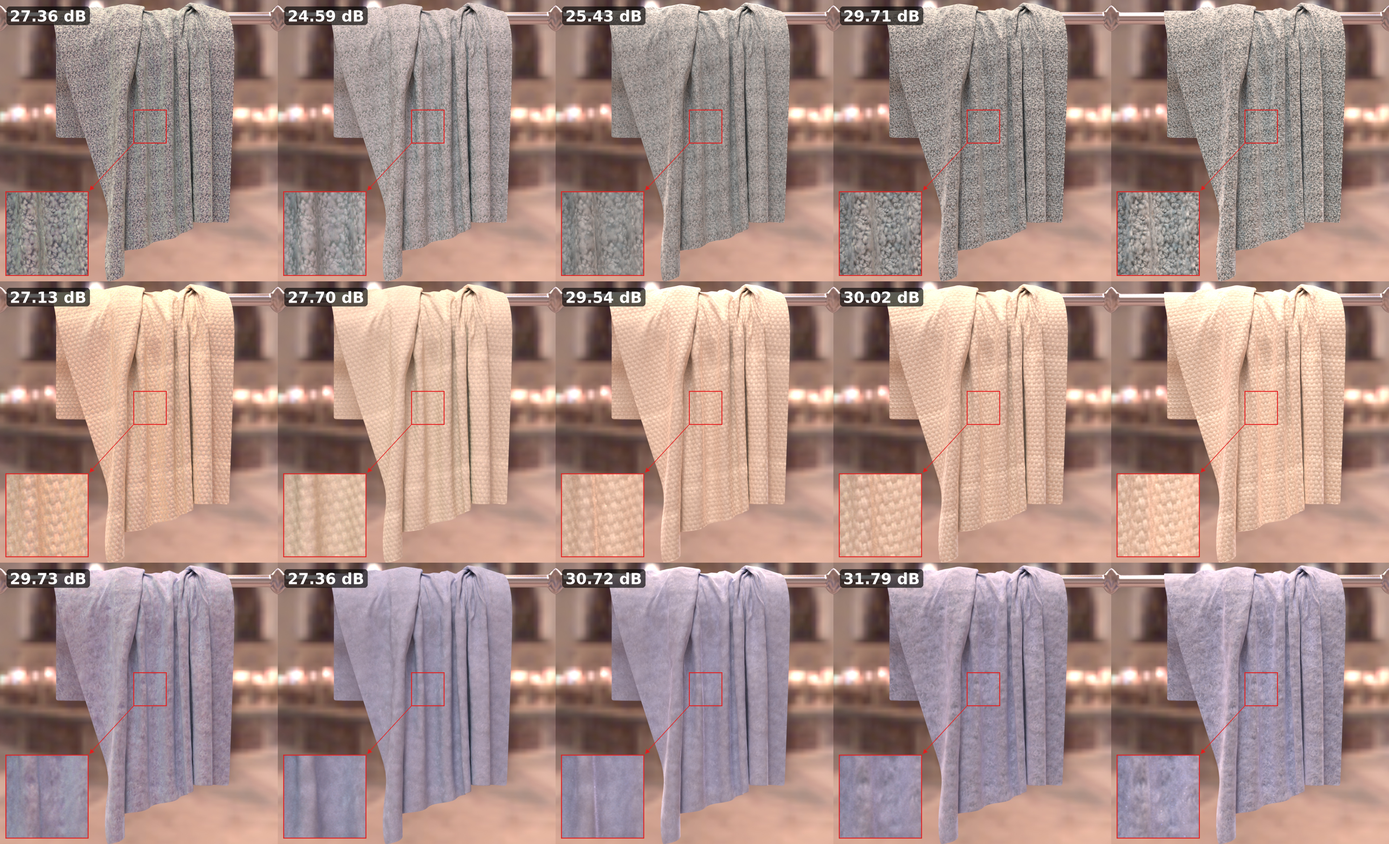
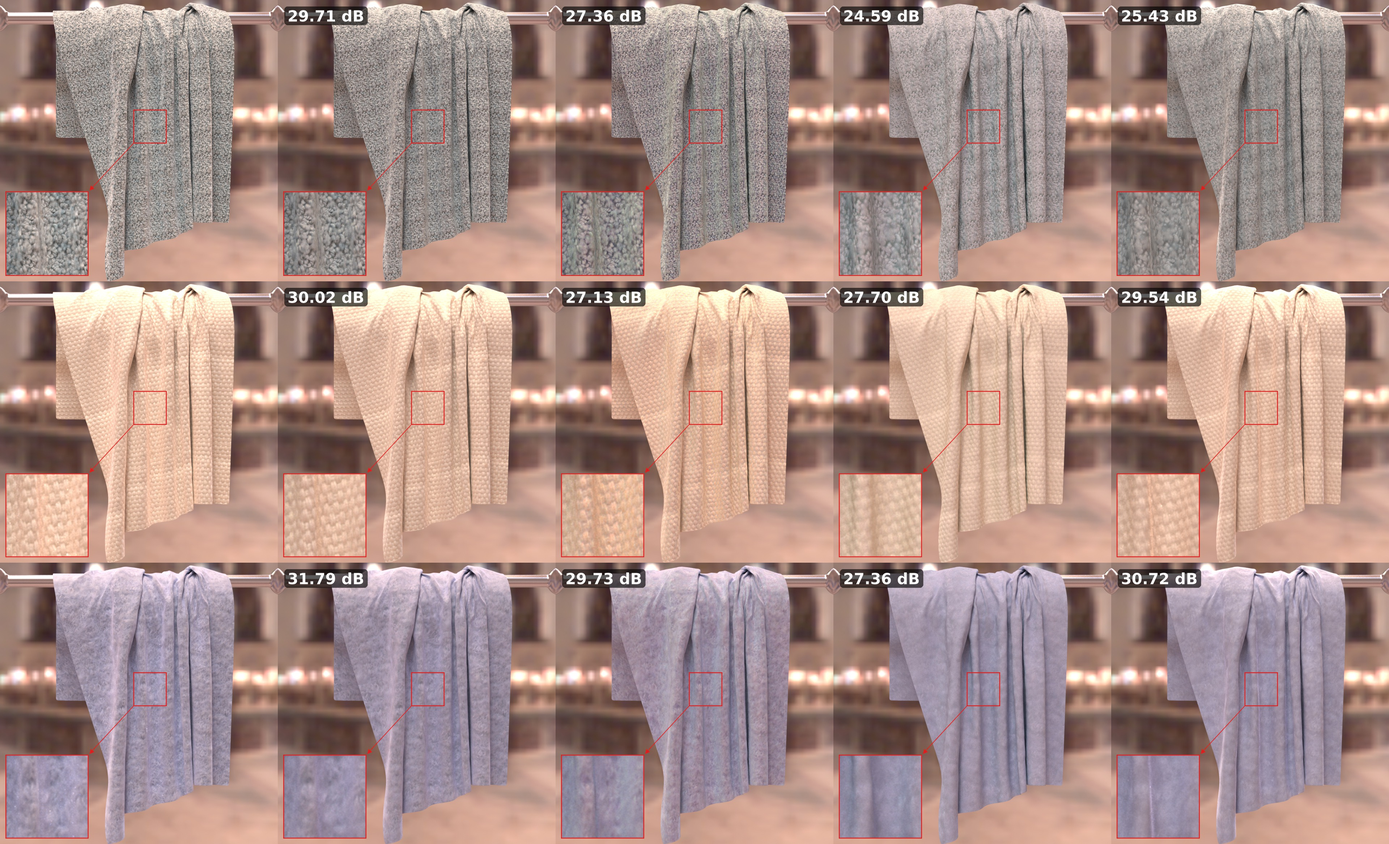
Qualitative figures: one column order everywhere (GT | RoboCloth | UBOFAB19 | MERL | PBR)
The UBO2014 close-up and the two 12-material grids are re-cut along their
gutters to match the test-set and image-space figures; headers, intro and the
'all 12 materials' caption updated.

diff --git a/docs/results.html b/docs/results.html
@@ -51,29 +51,29 @@
         Same protocol as the paper &mdash; the decoder, renderer and Stage&nbsp;2 fitting are fixed and only the
         Stage&nbsp;1 training data changes. Every recovered material is relit in a common scene: the same cloth mesh
         draped over a bar, with identical UV tiling, lighting and camera for every method, so any visible difference is
-        due solely to the learned material. Columns are the decoder trained on <b>RoboCloth</b>, <b>UBOFAB19</b> or
-        <b>MERL</b>, the analytic <b>PBR</b> fit, and the <b>ground truth</b> where one exists.
+        due solely to the learned material. Columns, left to right: the <b>ground truth</b> where one exists, the decoder
+        trained on <b>RoboCloth</b>, <b>UBOFAB19</b> or <b>MERL</b>, and the analytic <b>PBR</b> fit.
     </p>
 
     <h4 class="res-subtitle" id="ubo2014">UBO2014 &mdash; all 12 held-out materials</h4>
     <figure class="res-figure qual-fig">
         <h5 class="qual-title">Materials 1&ndash;6</h5>
         <div class="qual-table" style="--cols:5;--rows:6">
-            <div class="qual-head"><span>UBOFAB19</span><span>MERL</span><span>PBR</span><span class="is-ours">RoboCloth</span><span>GT</span></div>
+            <div class="qual-head"><span>GT</span><span class="is-ours">RoboCloth</span><span>UBOFAB19</span><span>MERL</span><span>PBR</span></div>
             <div class="qual-rowlabels"><span>carpet02</span><span>carpet07</span><span>carpet09</span><span>carpet12</span><span>fabric02</span><span>fabric04</span></div>
-            <a class="res-card qual-card qual-img" href="images/results/qual/fullres/ubo2014_1-6.jpg" target="_blank" rel="noopener" title="Open at full resolution">
-                <img src="images/results/qual/web/ubo2014_1-6.jpg" width="1920" height="2332" loading="lazy" decoding="async" alt="">
+            <a class="res-card qual-card qual-img" href="images/results/qual/fullres/ubo2014_1-6.jpg?v=2" target="_blank" rel="noopener" title="Open at full resolution">
+                <img src="images/results/qual/web/ubo2014_1-6.jpg?v=2" width="1920" height="2332" loading="lazy" decoding="async" alt="">
             </a>
         </div>
-        <figcaption>Extends the close-up to every held-out UBO2014 material. Across all 12, the RoboCloth decoder most consistently matches the GT reference in both colour and weave texture.</figcaption>
+        <figcaption>All 12 held-out UBO2014 materials, rendered in the same scene as the close-up on the main page. Across all 12, the RoboCloth decoder most consistently matches the GT reference in both colour and weave texture.</figcaption>
     </figure>
     <figure class="res-figure qual-fig">
         <h5 class="qual-title">Materials 7&ndash;12</h5>
         <div class="qual-table" style="--cols:5;--rows:6">
-            <div class="qual-head"><span>UBOFAB19</span><span>MERL</span><span>PBR</span><span class="is-ours">RoboCloth</span><span>GT</span></div>
+            <div class="qual-head"><span>GT</span><span class="is-ours">RoboCloth</span><span>UBOFAB19</span><span>MERL</span><span>PBR</span></div>
             <div class="qual-rowlabels"><span>fabric09</span><span>fabric11</span><span>felt01</span><span>felt03</span><span>felt05</span><span>felt10</span></div>
-            <a class="res-card qual-card qual-img" href="images/results/qual/fullres/ubo2014_7-12.jpg" target="_blank" rel="noopener" title="Open at full resolution">
-                <img src="images/results/qual/web/ubo2014_7-12.jpg" width="1920" height="2332" loading="lazy" decoding="async" alt="">
+            <a class="res-card qual-card qual-img" href="images/results/qual/fullres/ubo2014_7-12.jpg?v=2" target="_blank" rel="noopener" title="Open at full resolution">
+                <img src="images/results/qual/web/ubo2014_7-12.jpg?v=2" width="1920" height="2332" loading="lazy" decoding="async" alt="">
             </a>
         </div>
         <figcaption>Materials 7&ndash;12; same columns and scene as above.</figcaption>

diff --git a/docs/index.html b/docs/index.html
@@ -544,10 +544,10 @@
     <figure class="res-figure qual-fig">
         <h5 class="qual-title">UBO2014 &mdash; close-up on three held-out materials</h5>
         <div class="qual-table" style="--cols:5;--rows:3">
-            <div class="qual-head"><span>UBOFAB19</span><span>MERL</span><span>PBR</span><span class="is-ours">RoboCloth</span><span>GT</span></div>
+            <div class="qual-head"><span>GT</span><span class="is-ours">RoboCloth</span><span>UBOFAB19</span><span>MERL</span><span>PBR</span></div>
             <div class="qual-rowlabels"><span>carpet12</span><span>fabric02</span><span>felt01</span></div>
-            <a class="res-card qual-card qual-img" href="images/results/qual/fullres/ubo2014_closeup.jpg" target="_blank" rel="noopener" title="Open at full resolution">
-                <img src="images/results/qual/web/ubo2014_closeup.jpg" width="1920" height="1167" loading="lazy" decoding="async" alt="">
+            <a class="res-card qual-card qual-img" href="images/results/qual/fullres/ubo2014_closeup.jpg?v=2" target="_blank" rel="noopener" title="Open at full resolution">
+                <img src="images/results/qual/web/ubo2014_closeup.jpg?v=2" width="1920" height="1167" loading="lazy" decoding="async" alt="">
             </a>
         </div>
         <figcaption>The MERL-trained decoder, trained only on spatially-uniform isotropic BRDFs, loses the weave structure and drifts in colour; the UBOFAB19-trained decoder recovers texture but shifts the overall hue (e.g.&nbsp;fabric02), and the analytic PBR baseline misses the fine sheen. Only the RoboCloth decoder matches the ground-truth colour while preserving both the specular highlight at the fold and the fuzzy weave detail. Each cell insets a magnified crop of the boxed region, taken from the full-resolution render; the number in each cell is the PSNR (dB) of the rendered image against the GT render, highest for RoboCloth in every cell.</figcaption>
